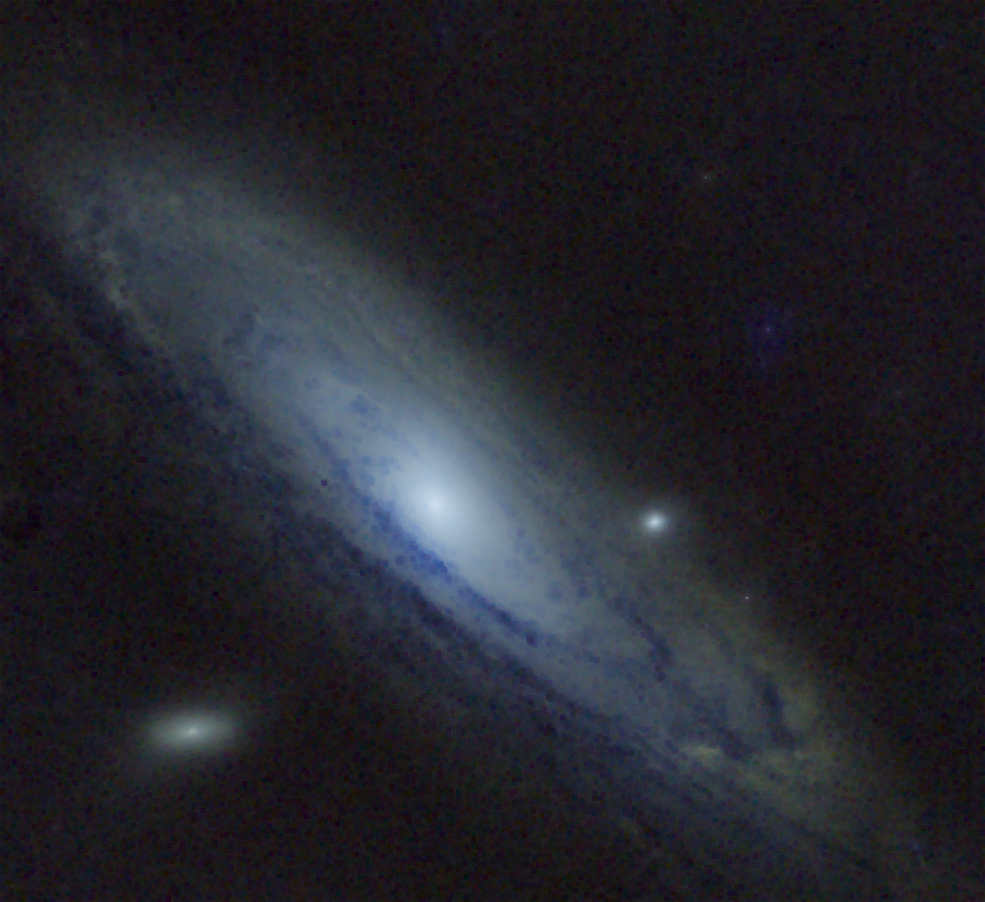
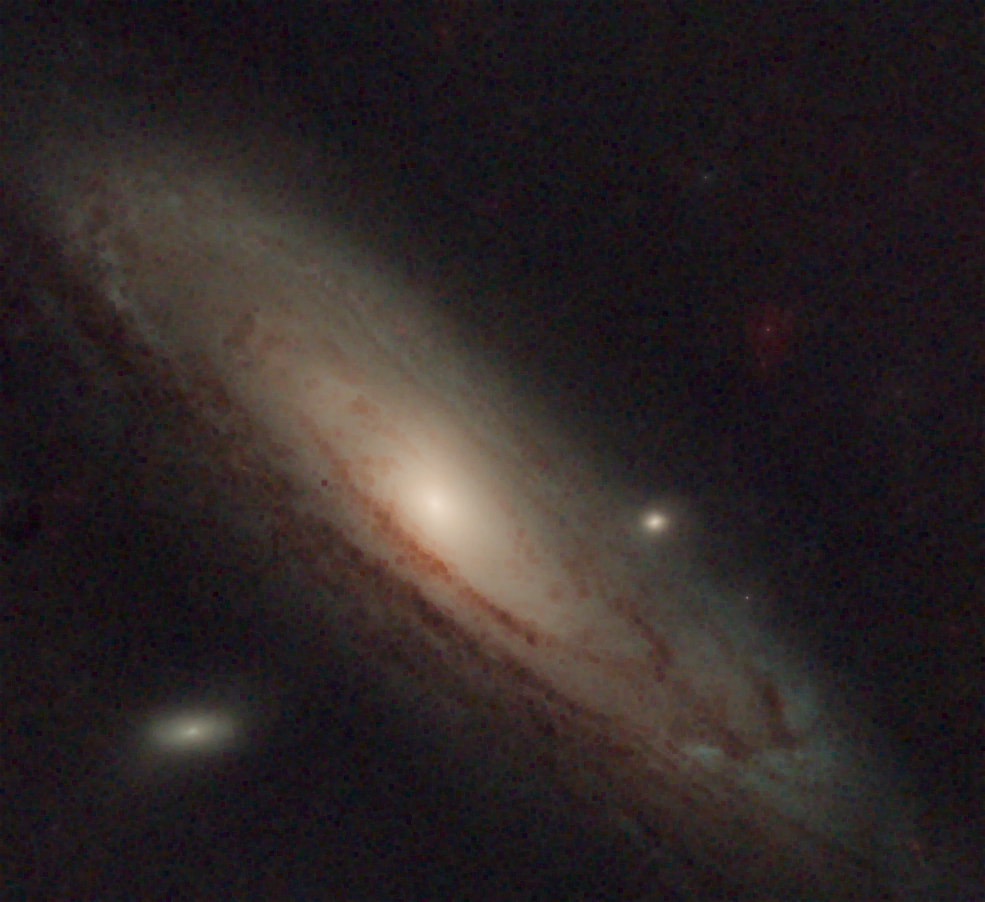
bonne couleurs pour eroded

diff --git a/erosion.py b/erosion.py
@@ -48,6 +48,11 @@ kernel = np.ones((3,3), np.uint8)
 # Perform erosion
 eroded_image = cv.erode(image, kernel, iterations=2)
 
+# Convert back to RGB before saving (for color images only)
+if data.ndim == 3:
+    eroded_image = cv.cvtColor(eroded_image, cv.COLOR_BGR2RGB)
+
+
 # Save the eroded image 
 cv.imwrite('./results/eroded.png', eroded_image)
 
